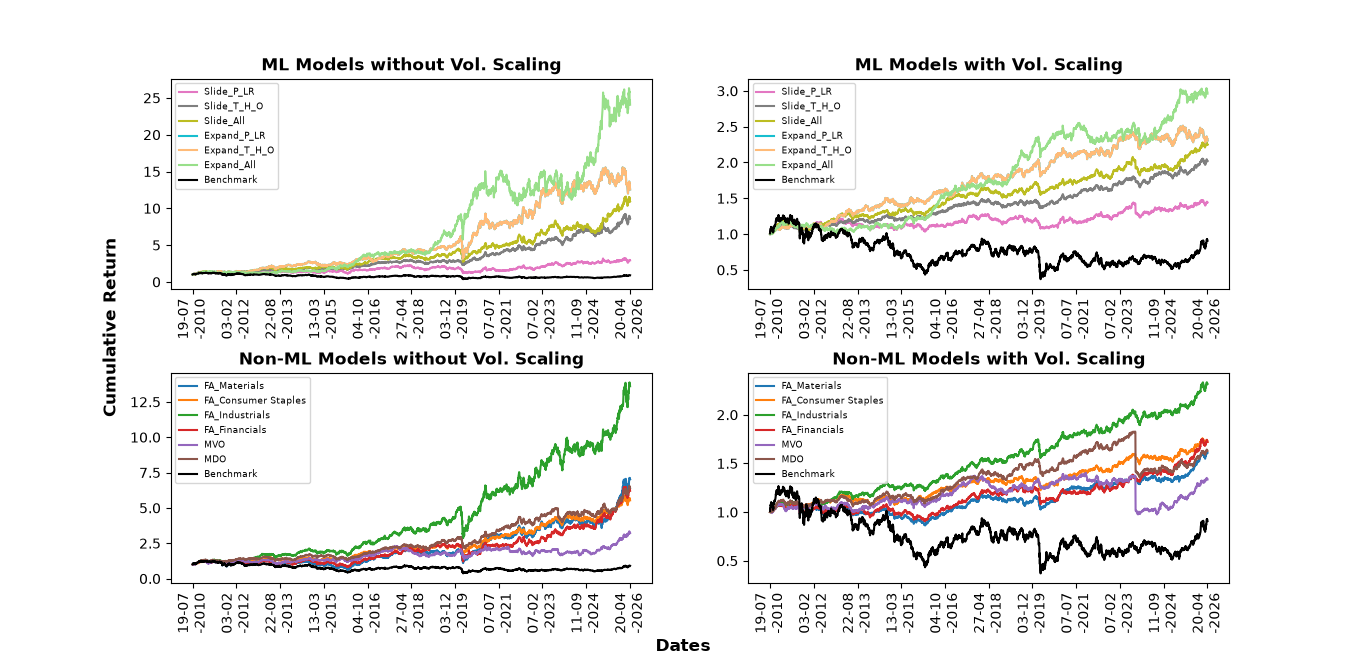
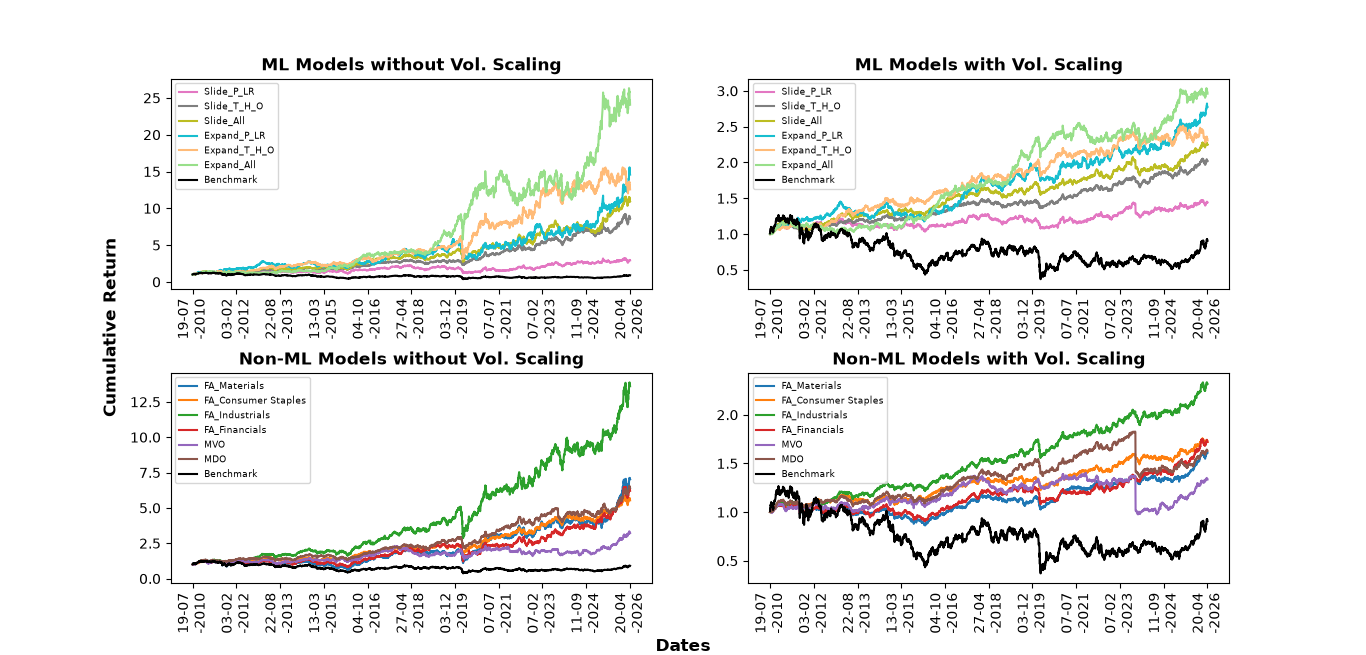
Documentacion: Modelos

diff --git a/2_OptimizacionPortafolio/documentacion.md b/2_OptimizacionPortafolio/documentacion.md
@@ -71,16 +71,12 @@ Dentros las estrategias de asignacion fija, enfocandose en el sector industrial 
 * **Ratio Sharpe**: esta estrategia obtuvo el ratio sharpe mas alto de 0.966 y 0.929 (sin escalar la volatilidad).
 * **Retorno Esperado**: al igual, esta estrategia obtiene los mejores retornos esperados annuales, con 0.184 y 0.055 (sin escalar la volatilidad)
 
-
-
-asfsfsa
-
-asgsagsag
-
 ### Impacto de COVID
-asfsfsa
+La pandemia del COVID se sinitio en todos aspectos globales, incluyendo al sector financiero.
 
-asgsagsag
+* **Todas las estrategia**, sea con o sin ML, pueden capturar los impactos drasticos del COVID 19
+* Las estrategias **con volatilidad escalada** fueron **menos afectados** por estos impactos, al tener una caida mas mesurada y con menos perdidas.
+* Todas las estrategias, incluyendo el benchmark, pudieron re-saltar sus ganancias al terminar la pandemia. 
 
 ### Tercero
 asfsfsa
@@ -93,21 +89,36 @@ asfsfsa
 asgsagsag
 
 ## Modelos, Predicciones y sus Impactos
-asfsafsa
+Existen varias formas para crear un modelo que capture las dependencias temporales dentro un conjunto de datos. En este caso, dos estrategias principales se estudiaron: ventanas deslizantes y ventanas expansivas. Adicionalmente, diferentes combinaciones de las siguientes metricas financieras, de cada accion, se investigaron: Precio de Cierre (P), Retornos Logaritmicos (RL), TEMA (T), HLC3 (H), y OBV (O). 
 
-### Modelo 1
-asfsaf
+### Modelos con Ventanas Deslizantes
+En esta estrategia las ventanas de los datos de deslizaban anualmente, senalando que solo los datos dentro de dos anos se utilizaban para entranar el modelo. Se crearon tres diferentes modelos con esta estrategia. La arquitecturas eras iguales, pero los datos procesados tenian las siguientes diferecias: datos 1 usaban los indicadores P y RL; datos 2 usaban los indicadores T, H, y O; datos 3 usaban todos los inicadores. 
 
-### Modelo 2
-asfsafsaf
+
+
+### Modelos con Ventanas Expansivas
+En esta estrategia las ventanas se expandia anualmente para capturar todos los datos desde el comienzo (disponible) hasta el dia antes de cuando empieza los datos de pruebas. Similar a la otra estrategia, se crearon tres diferentes modelos con arquitecturas iguales pero diferentes indicadores en cada conjunto. 
+
+
+### Resultados
+Los modelos de las ventanas deslizantes obtuvieron un **promedio ratio Sharpe de 0.695 y 0.645**(al escalar la volatilidad) mientras los moelos de las ventanas expansivas tenian **0.809 y 769**(al escalar la volatilidad). En otras palabras, la segunda estrategia predice pesas (de las acciones) que resultan en portafolios con ratio Sharpes mas altos. 
+
+Por lo contrario, se registra que en ambas estrategias los modelos que utilizaban todos los indicadores obtuvieron un ratio Sharpe **mas que 1.39 (ventanas deslizantes) y 1.19 (ventas expansivas) veces** de que todos los demas. Incluso, el modelo con ventana deslizante que utilizaba todos los indicadores obtuvo mejores resultados que los modelos de ventanas expansivas que no utilizaban todos los indicadores. 
+
+Adicionalmente, el **modelo con ventanas expansivas** tiene mejores resultados al **no escalar la volatailidad** (con un ratios de 0.905 y 1.254). De lo contrario, el **modelo con ventanas deslizante** tiene los mejores resultados cuando **si se escala la volatilidad** (con ratios de 0.844 y 1.252)
 
 ## Recomendaciones
 asfasfa
 
+### Estrategia Corresponde al Usuario
+Todas las estrategias presentadas se destacan con 10 diferentes metricas, pero ninguna estrategia es la mejor en todas estas metricas. La estrategia mas adecuada para desenvolver depende en las caracteristicas del usuario. 
+
 ### Enfoque en el Sector Industrial
 El sector Industrial tiene una gran corrida, obteniendo alrededor de **250% retorno cumulativo** en la inversion inicial. En corto plazo, se recomienda invertiendo una gran mayoria de los recursos en el sector industrial, siempre y cuando se diversifique con otras acciones. A largo plazo, se recomienda seguir investigando los movimientos del sector, considerando que un cambio del mercado pueda empezar a fortalecer otro sector. 
 
-### Segundo
+### Utilizacion de mas Indicadores
+Se registra que los ML modelos, en ambas estrategias de ventanilla (deslizante y expansiva), obtuvieron mejores rendimientos al utilizar **todos los indicadores**. 
+
 sdgsagag
 
 ### Tercero
